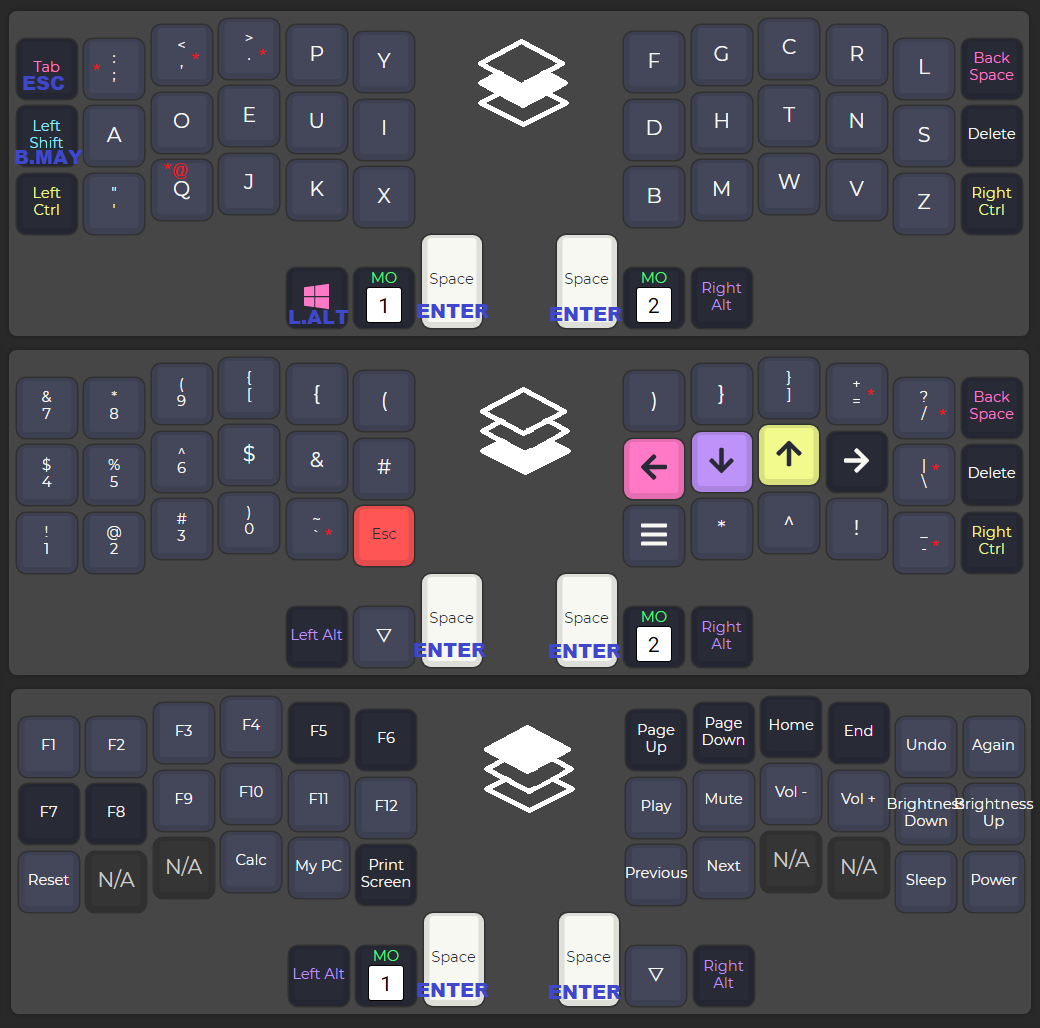
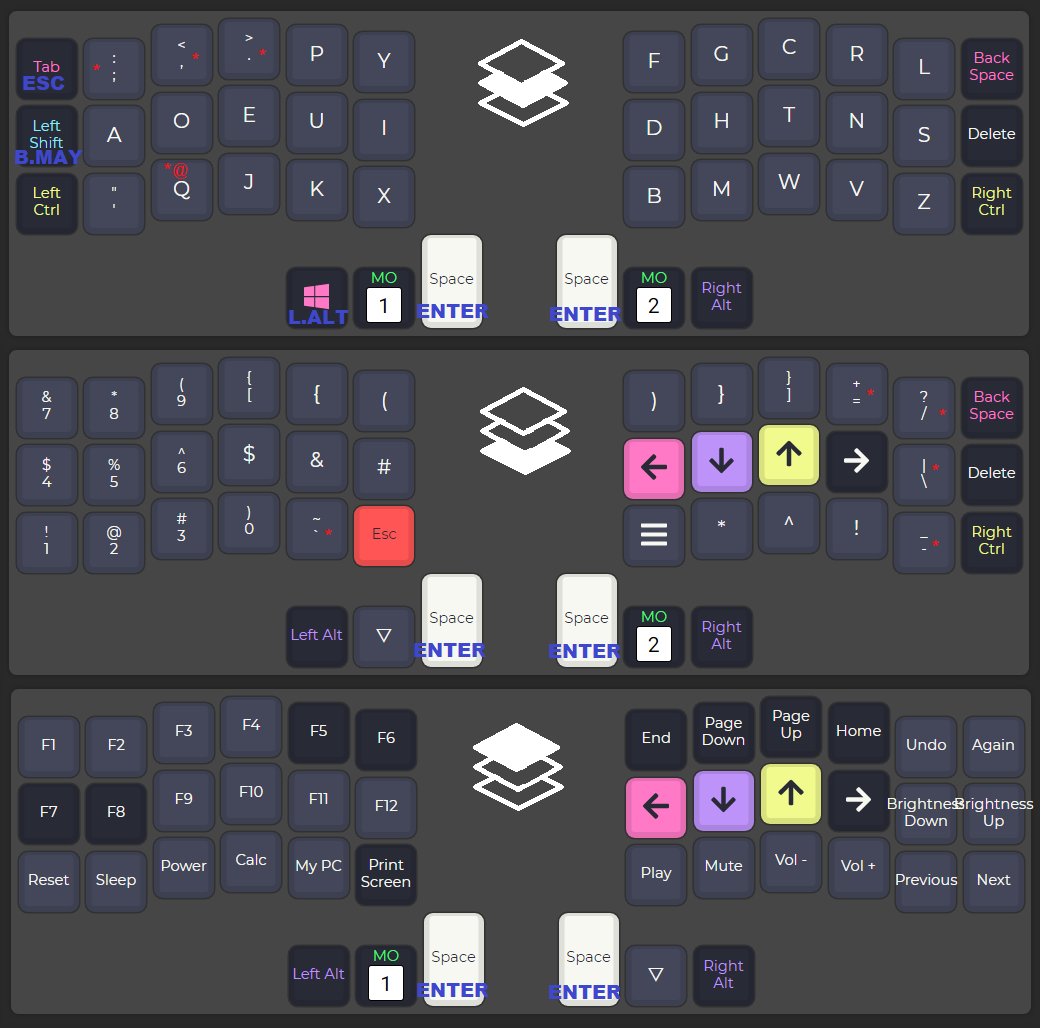
modificacion de capa alta

diff --git a/rene_prog_dvorak/keymap.c b/rene_prog_dvorak/keymap.c
@@ -80,11 +80,11 @@ TD(TD_CAPLOCK), KC_A,   KC_O,    KC_E,    KC_U,    KC_I,                        
 
     [_RAISE] = LAYOUT(
   //|-----------------------------------------------------|                    |-----------------------------------------------------|
-    KC_F1,    KC_F2,     KC_F3,   KC_F4,   KC_F5,   KC_F6,                       KC_PGUP, KC_PGDN, KC_HOME, KC_END, KC_UNDO, KC_AGAIN,
+    KC_F1,    KC_F2,     KC_F3,   KC_F4,   KC_F5,   KC_F6,                       KC_END, KC_PGDN, KC_PGUP, KC_HOME, KC_UNDO, KC_AGAIN,
   //|--------+--------+--------+--------+--------+--------|                    |--------+--------+--------+--------+--------+--------|
-    KC_F7,    KC_F8,   KC_F9,   KC_F10,  KC_F11,  KC_F12,                       KC_MPLY, KC_MUTE, KC_VOLD, KC_VOLU, KC_BRID, KC_BRIU,
+    KC_F7,    KC_F8,   KC_F9,   KC_F10,  KC_F11,  KC_F12,                       KC_LEFT , KC_DOWN, KC_UP, KC_RGHT , KC_BRID, KC_BRIU,
   //|--------+--------+--------+--------+--------+--------|                    |--------+--------+--------+--------+--------+--------|
-    RESET,    KC_NO,   KC_NO,   KC_CALC, KC_MYCM, KC_PSCR,                       KC_MPRV, KC_MNXT, KC_NO,   KC_NO,  KC_SLEP ,  KC_PWR,
+    RESET,  KC_SLEP ,  KC_PWR,  KC_CALC, KC_MYCM, KC_PSCR,                      KC_MPLY, KC_MUTE, KC_VOLD, KC_VOLU , KC_MPRV, KC_MNXT,
   //|--------+--------+--------+--------+--------+--------+--------|  |--------+--------+--------+--------+--------+--------+--------|
                                         KC_LALT, LOWER,  TD(TD_SPC),    TD(TD_SPC), KC_TRNS, KC_RALT
                                       //|--------------------------|  |--------------------------|
